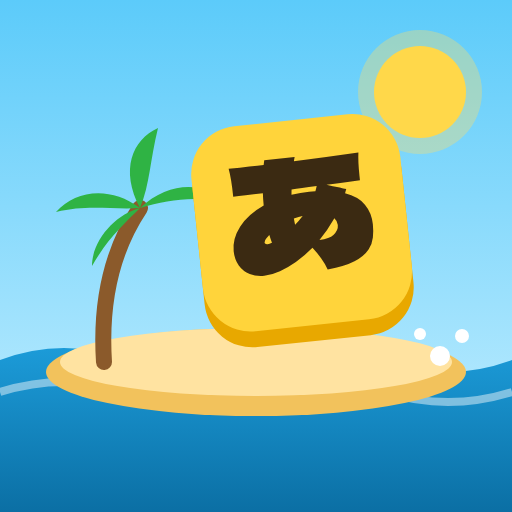
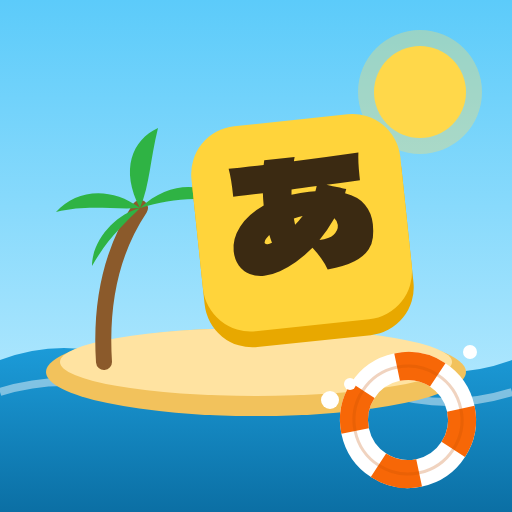
題字を「ことばサバイバル」に変更・アイコンにうきわを追加

Changed region(s): [[0.625, 0.625, 0.9375, 0.9688]]

diff --git a/docs/index.html b/docs/index.html
@@ -3,7 +3,7 @@
 <head>
 <meta charset="utf-8">
 <meta name="viewport" content="width=device-width,initial-scale=1,viewport-fit=cover">
-<title>のこれ！ことば島</title>
+<title>ことばサバイバル</title>
 <link rel="icon" href="icon.svg" type="image/svg+xml">
 <link rel="preconnect" href="https://fonts.googleapis.com">
 <link rel="stylesheet" href="https://fonts.googleapis.com/css2?family=Dela+Gothic+One&family=M+PLUS+Rounded+1c:wght@500;800&display=swap">
@@ -118,7 +118,7 @@ button:disabled{opacity:.5;cursor:default}
   <!-- はじめ -->
   <section id="home" class="scr">
     <div class="top"><span></span><button type="button" class="sound soundBtn" aria-label="音をきる">🔊</button></div>
-    <h1 class="logo">のこれ！<small>ことば島</small></h1>
+    <h1 class="logo">ことば<small>サバイバル</small></h1>
     <div class="chars"><div class="ch"><div class="face emo">🐻</div></div><div class="ch"><div class="face emo">🐰</div></div><div class="ch"><div class="face emo">🦊</div></div><div class="ch"><div class="face emo">🐸</div></div></div>
     <div class="grow"></div>
     <div class="panel">

diff --git a/docs/logic.js b/docs/logic.js
@@ -1,4 +1,4 @@
-// のこれ！ことば島：ゲームの決まり（画面や通信とは切り離した、純粋な計算だけ）
+// ことばサバイバル：ゲームの決まり（画面や通信とは切り離した、純粋な計算だけ）
 (function (root) {
   // お題に出す文字：言葉が十分ある清音だけ（ん・を・ぬ・小さい文字・濁音は出さない）
   const ODAI_CHARS = "あいうえおかきくけこさしすせそたちつてとなにねのはひふへほまみむめもやゆよらりるれろわ".split("");

diff --git a/docs/game.js b/docs/game.js
@@ -1,4 +1,4 @@
-// のこれ！ことば島：画面と通信。部屋をつくった人の端末が「審判役」になり、
+// ことばサバイバル：画面と通信。部屋をつくった人の端末が「審判役」になり、
 // 順番・持ち時間・辞書の判定をして、結果をみんなの端末へ配る（PeerJS で端末どうしを直接つなぐ）。
 (function () {
   const L = window.KotobaLogic;

diff --git a/README.md b/README.md
@@ -1,4 +1,4 @@
-# のこれ！ことば島
+# ことばサバイバル
 
 2〜4人のオンライン対戦ことばゲーム。お題のひらがなから始まる言葉を順番に言い、持ち時間内に言えなくなったら脱落、最後まで残った人の勝ち。
 
